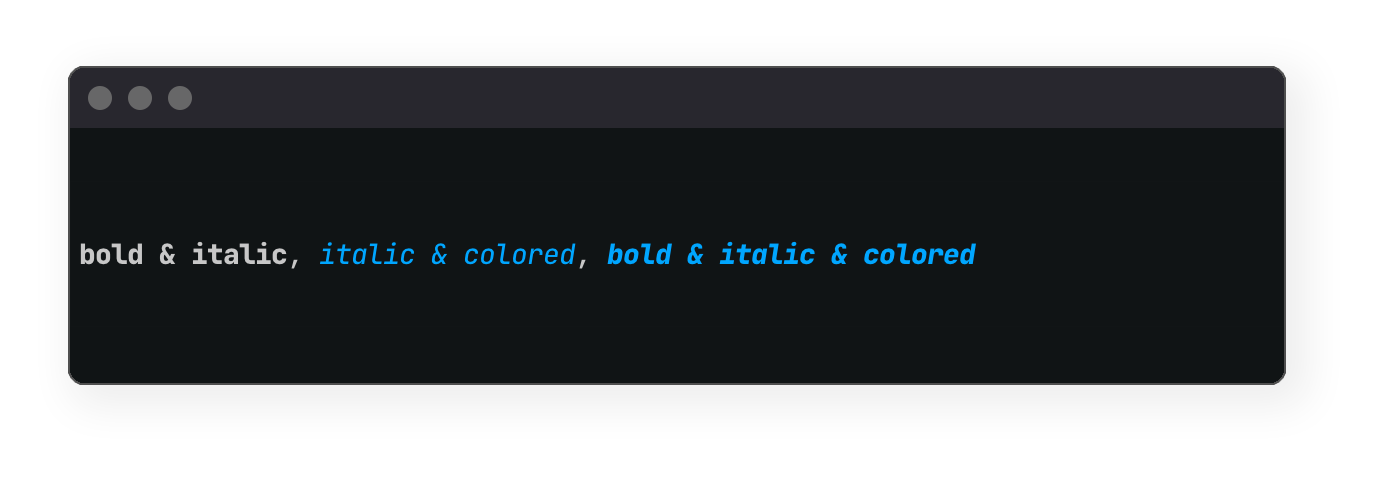
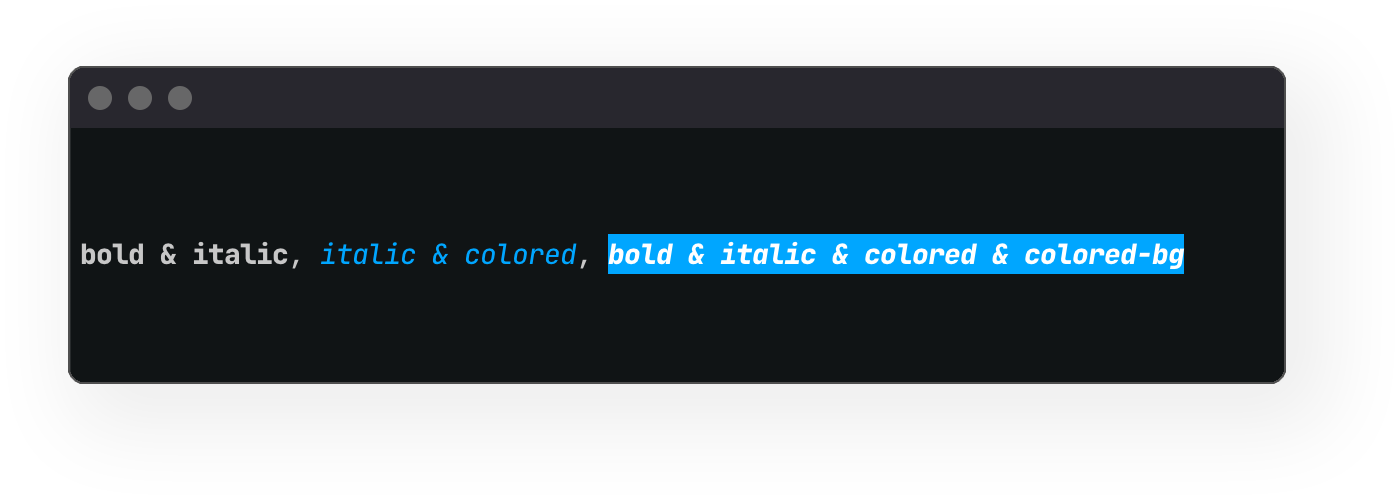
Update readme

Changed region(s): [[0.0615, 0.45, 0.8606, 0.57]]

diff --git a/README.md b/README.md
@@ -39,7 +39,7 @@ Add as a dependency to your project:
 
 
 ```Clojure
-[io.github.paintparty/get-rich "0.1.0-a"]
+[io.github.paintparty/get-rich "0.1.0"]
 ```
 <br>
 
@@ -109,13 +109,13 @@ However, if you would like to print with either `js.console/warn`, or `js/consol
 
 ### Combo styles
 
-You can add multiple decorations with hiccup-style tags. The order doesn't matter.
+You can add multiple decorations with hiccup-style tags (a keyword with dot separators). The order of the things separated by dots doesn't matter.
 ```Clojure
 (println (enriched [:bold.italic "bold & italic"]
                    ", "
                    [:italic.blue "italic & colored"]
                    ", "
-                   [:bold.italic.blue "bold & italic & colored"]))
+                   [:bold.italic.white.blue-bg "bold & italic & colored & colored-bg"]))
 ```
 <p align="center"><img src="resources/combos-light.png" width="750px" /></p>
 <p align="center"><img src="resources/combos-dark.png" width="750px" /></p>
@@ -179,9 +179,10 @@ You can use the following semantic aliases for some colors (shown in bold):
 
 You can also pass a map (instead of a hiccup-style tag) to style the text:
 ```Clojure
-(enriched [{:color       :green
-            :font-style  :italic
-            :font-weight :bold}
+(enriched [{:color            :green
+            :background-color :black
+            :font-style       :italic
+            :font-weight      :bold}
            "Negative"])
 ```
 <br>
